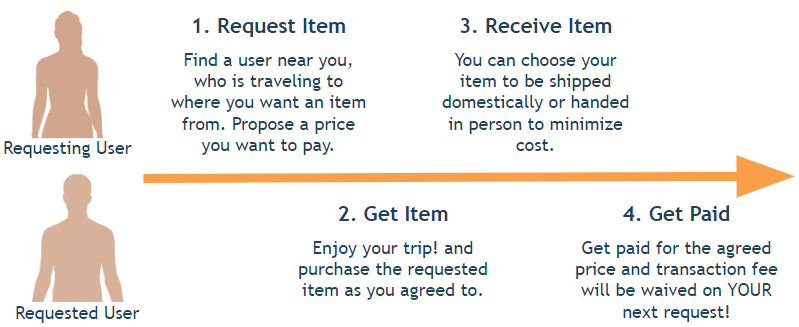
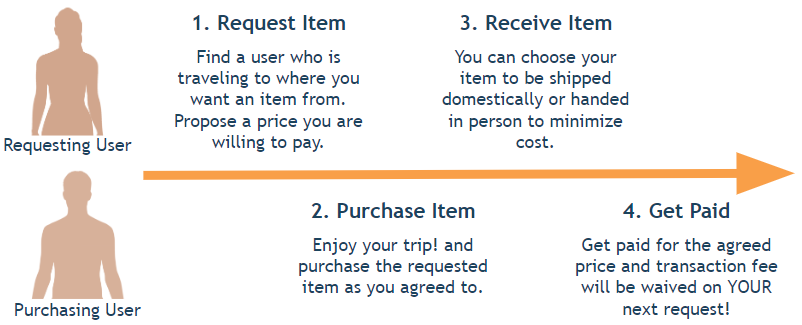
wording fix

diff --git a/takako/frontend/src/components/HowItWorks.jsx b/takako/frontend/src/components/HowItWorks.jsx
@@ -26,7 +26,7 @@ class HowItWorks extends Component {
 
            <div class="wrapper clearfix">
             <div class="how-it-works-left">
-             <h3>...If You Want to Request an Item</h3>
+             <h3>...If You Are "Requesting User" Who Wants to Request an Item</h3>
              <div class="step">
                <div class="step-number">1</div>
                <p>Search for a user by "Travel destination" and "Residence City" to find someone who lives near you, and is traveling to the city where you want your item from.</p>
@@ -37,27 +37,31 @@ class HowItWorks extends Component {
              </div>
              <div class="step">
                <div class="step-number">3</div>
-               <p>If the requested user approves your request, Souvenir will notify you through an e-mail.</p>
+               <p>If the purchasing user approves your request, Souvenir will notify you through an e-mail.</p>
              </div>
              <div class="step">
                <div class="step-number">4</div>
-               <p>Through the link on the e-mail, make a payment for the proposed price plus 3% transaction fee.  <a class="details" href="/how-it-works#transaction-fee">*What's transaction fee?</a> <br/> Souvenir will keep your payment until your item is received :)</p>
+               <p>Make a payment for the proposed price plus 3% transaction fee.  <a class="details" href="/how-it-works#transaction-fee">*What's transaction fee?</a> <br/> Souvenir will release your payment only when your item is received :)</p>
              </div>
              <div class="step">
                <div class="step-number">5</div>
+               <p>Wait to receive a notification that the purchasing user purchased your item. Agree to the meet-up details if you chose "meet-up" as the means of delivery.</p>
+             </div>
+             <div class="step">
+               <div class="step-number">6</div>
                <p>Please notify Souvenir once you receive the item. Enjoy!</p>
              </div>
            </div>
 
            <div class="how-it-works-right">
-             <h3>...If You Receive a Request to Buy an Item</h3>
+             <h3>...If You Are "Purchasing User" Who Receives a Request to Buy an Item</h3>
              <div class="step">
                <div class="step-number">1</div>
                  <p>Check the request either from the link on the notification e-mail or on "Transaction Status" page.</p>
                </div>
              <div class="step">
                <div class="step-number">2</div>
-               <p>If you are willing to get the item for the proposed price by the specified date, click "Accept" in the request form.<br/><a class="details" href="/how-it-works#proposed-price">*What's proposed price?</a> </p>
+               <p>If you are willing to purchase the item for the proposed price by the specified date, click "Accept" in the request form.<br/><a class="details" href="/how-it-works#proposed-price">*What's proposed price?</a> </p>
              </div>
              <div class="step">
                <div class="step-number">3</div>
@@ -65,14 +69,18 @@ class HowItWorks extends Component {
              </div>
              <div class="step">
                <div class="step-number">4</div>
-               <p>Purchase the requested item on your trip. Ship it or meet up with the user before the date specified in the request form.</p>
+               <p>Purchase the requested item on your trip. Notify the requesting user with any meet-up details.</p>
              </div>
              <div class="step">
                <div class="step-number">5</div>
-               <p>Once the item is received by the requesting user, Souvenir will send you the payment.</p>
+               <p>Ship it or meet up with the user before the date specified in the request form.</p>
              </div>
              <div class="step">
                <div class="step-number">6</div>
+               <p>Once the item is received by the requesting user, Souvenir will send you the payment.</p>
+             </div>
+             <div class="step">
+               <div class="step-number">7</div>
                <p>Congraturations! When you want to request an item, your next transaction fee will be waived. <a class="details" href="/how-it-works#proposed-price">*What's transaction fee?</a> </p>
              </div>
            </div>
@@ -80,24 +88,24 @@ class HowItWorks extends Component {
 
           <h3>Transaction Fee</h3>
           <p class="to-get-started">For each request, the requesting user will be charged 3% transaction fee.
-          <br/><br/>This transaction fee will be waived if you have completed someone's request previously.</p>
+          <br/><br/>This transaction fee will be waived one-time if you have completed someone's request previously.</p>
           <h3 id="proposed-price">Proposed Price</h3>
           <p class="to-get-started">
-            The proposed price should include a price of an item and shipping (if you choose shipping as a delivery method).
-            <br/>It should be determined based on a retail price. Attaching an item URL will give a better idea for both users!
-            <br/><br/>The requesting user will be paying this proposed price PLUS 3% transaction fee.
-            <br/><br/>The full proposed price will be paid to the requested user when the transaction is completed.
+            The proposed price should include a price of an item and commission to the purchasing user.
+            <br/>Attaching an item URL will give a better idea for both users!
+            <br/><br/>The requesting user will be paying this proposed price including the commission, PLUS 3% transaction fee.
+            <br/><br/>The full proposed price will be paid to the purchasing user when the transaction is complete.
           </p>
           <h3>Item Delivery</h3>
           <p class="to-get-started">
             An item can be delivered either by shipping or by meet-up. The requesting user will choose either option when sending a request.
-            <br/><br/> Contact information necessary for the delivery will be provided to each party once the payment of the item takes place.
+            <br/><br/> Contact information necessary for the delivery will be provided to each party once the request was approved by the purchasing user.
           </p>
           <h3>Returns</h3>
           <p class="to-get-started">
-            The requested user will be accountable for any wrong or damaged item, and the requesting user will be refunded in full.
-            <br/><br/>In order for the item to be a "wrong item", the requesting user should include an item ID in a request form.
-            <br/><br/><br/>Any personal reasons such as an item being different from a picture, or a size issue, items are not refundable.
+            The purchasing user will be accountable for any wrong or damaged item, and the requesting user will be refunded in full.
+            <br/><br/>In order for the item to be a "wrong item", the requesting user should include an item ID/SKU and item URL in a request form.
+            <br/><br/><br/>Any personal reasons such as an item being different from a picture, or a size issue, payments are not refundable.
           </p>
     </div>
     </div>

diff --git a/takako/frontend/src/components/Takako.jsx b/takako/frontend/src/components/Takako.jsx
@@ -110,7 +110,7 @@ class Takako extends Component {
         <div class="service-box">
         <i class="service-icon fa fa-lightbulb-o">★</i>
         <div class="service-title">Propose<br/>Price of the Item</div>
-        <p class="service-text">Requesting user will pay proposed item price + fixed 3% transaction fee. No more excessive premium or international shipping!</p>
+        <p class="service-text">Requesting user will pay proposed item price (including commision to purchasing user) + fixed 3% transaction fee.</p>
         </div>
         <div class="service-box">
         <i class="service-icon fa fa-lightbulb-o">★</i>
@@ -120,7 +120,7 @@ class Takako extends Component {
         <div class="service-box">
         <i class="service-icon fa fa-lightbulb-o">★</i>
         <div class="service-title">Easy and Sefe<br/>Transaction</div>
-        <p class="service-text">Just send a request form! No cumbersome negotiation. Souvenir will keep your payment until the item is delivered.</p>
+        <p class="service-text">Just send a request form! No cumbersome negotiation. Souvenir will release your payment when the item is delivered.</p>
         </div>
         </div>
         </section>

diff --git a/takako/frontend/src/components/Header.jsx b/takako/frontend/src/components/Header.jsx
@@ -20,7 +20,7 @@ render() {
         </div>
 
       <div class="menu">
-        <a href="/search">Search</a>
+        <a href="/search">Request Item</a>
         <a href="/how-it-works">How it works</a>
       </div>
     </header>

diff --git a/takako/frontend/src/css/style.scss b/takako/frontend/src/css/style.scss
@@ -578,7 +578,7 @@ h2 {
   width: 100%;
   float: right;
   padding: 0;
-  height: 1800px;
+  height: 2000px;
 }
 
 .how-it-works h3 {
